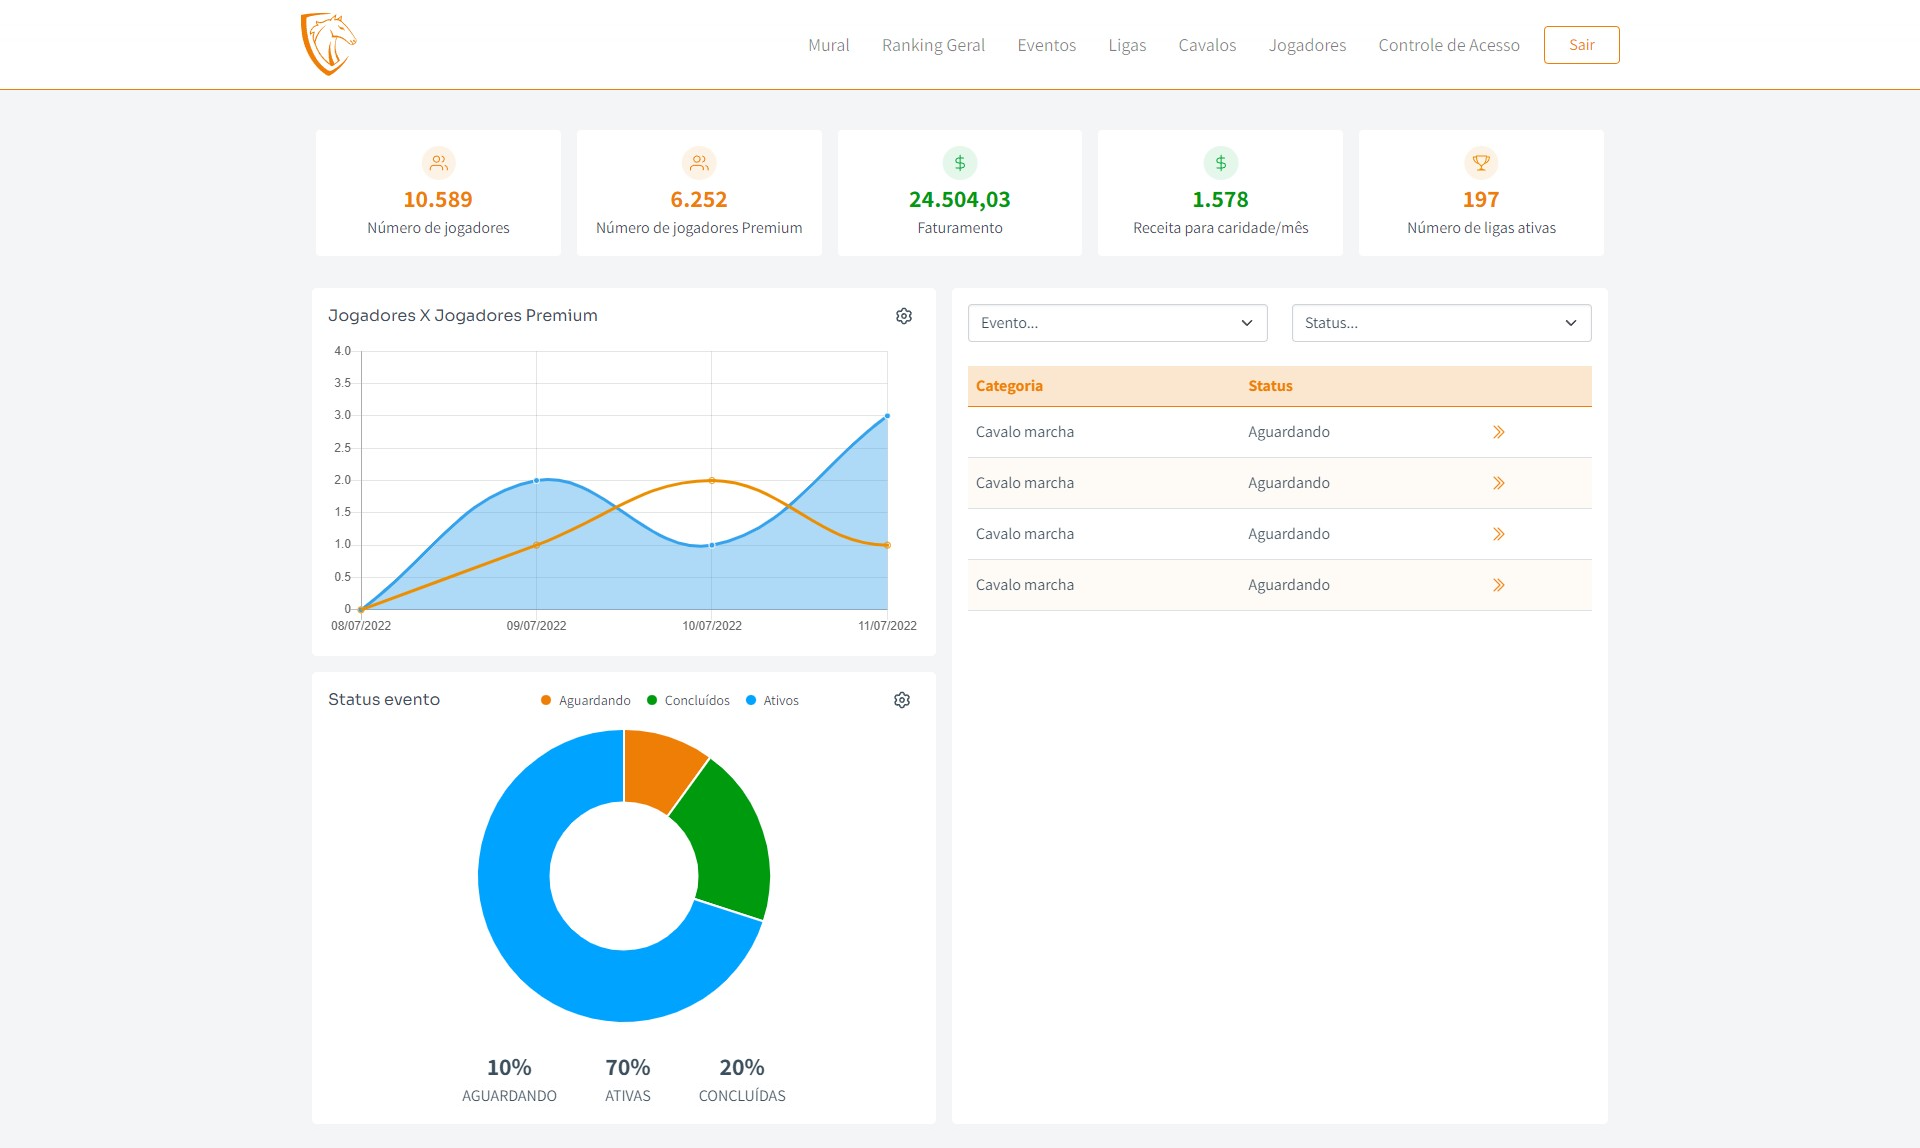
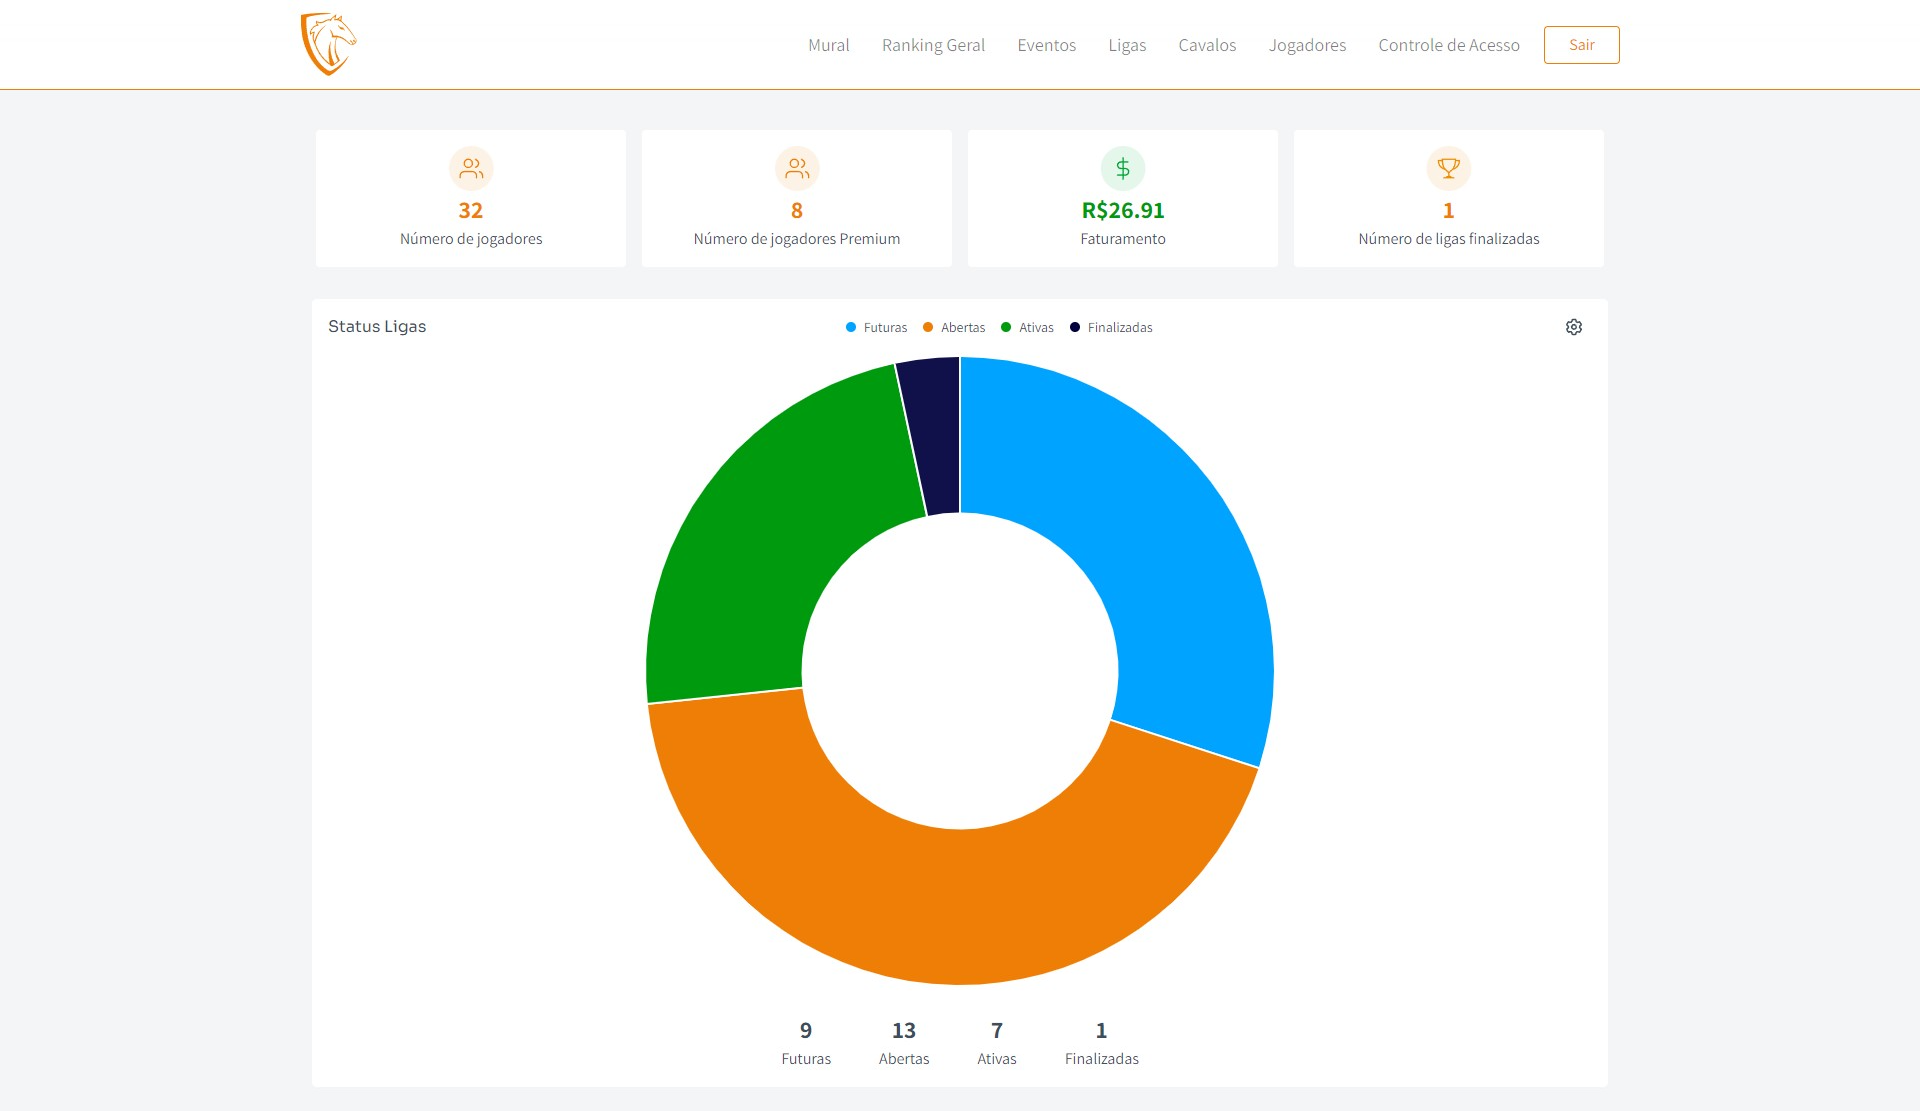
update

diff --git a/docs/Manual do Backoffice/ranking-geral.md b/docs/Manual do Backoffice/ranking-geral.md
@@ -2,49 +2,84 @@
 sidebar_position: 3
 ---
 
-# RANKING GERAL
+# RANKINGS
 
-O **Ranking Geral** é dividido em 3 partes:
+## COMO CALCULAR OS RANKINGS?
 
-- O Ranking Geral dos jogadores
-    - Ranking Geral dos jogadores Brutal que participaram dos eventos do Pisteiro.
-- O Ranking Geral da modalidade **Marcha batida**
-    - Ranking Geral dos jogadores Brutal que participaram dos eventos de Marcha batida.
-- O Ranking Geral da modalidade **Marcha picada**
-    - Ranking Geral dos jogadores Brutal que participaram dos eventos de Marcha picada.
+### 1. GERAR A PONTUAÇÃO E O RANKING DA CATEGORIA
 
-## COMO CALCULAR OS RANKINGS GERAIS?
+#### A. ACESSE A CATEGORIA QUE DESEJA INSERIR A PONTUAÇÃO.
 
-### 1. Clique em Calcular Ranking Geral
+:::note OBSERVAÇÃO
 
-:::note ATENÇÃO
-
-Para gerar o Ranking Geral, é necessario gerar o Ranking de ao menos uma liga paga.
+A categoria deve estar no status ''FECHADO''
 
 :::
+
+#### B. CLIQUE EM ''PONTUAÇÃO''
+
+![Campeonato](/img/backoffice/ranking1.png)
+
+#### C. INSIRA AS PONTUAÇÕES DE ACORDO COM A COLOCAÇÃO DOS CAVALOS NA CATEGORIA
+
+![Campeonato](/img/backoffice/ranking2.png)
+
+#### D. CLIQUE EM ''ENVIAR'' APÓS INSERIR TODA A PONTUAÇÃO
+
+![Campeonato](/img/backoffice/ranking3.png)
+
+#### E. CLIQUE EM ''VER CATEGORIA''
+
+![Campeonato](/img/backoffice/ranking4.png)
+
+#### F. CLIQUE EM ''RANKING''
+
+![Campeonato](/img/backoffice/ranking5.png)
+
+#### G. CLIQUE EM ''CALCULAR RANKING DA CATEGORIA''
+
+![Campeonato](/img/backoffice/ranking6.png)
+
+#### H. MUDE O STATUS DA CATEGORIA PARA ''FINALIZADO''
+
+### 2. CALCULAR O RANKING DAS LIGAS
+
+#### A. LOCALIZAR AS LIGAS COM AS CATEGORIAS FINALIZADAS
+
+#### B. CLIQUE NO ICONE DE SETA, NA LIGA QUE DESEJA GERAR O RANKING
+
+![Campeonato](/img/backoffice/ranking7.png)
+
+#### C. CLIQUE EM ''VER RANKING DA LIGA''
+
+![Campeonato](/img/backoffice/ranking8.png)
+
+#### D. CLIQUE EM ''CALCULAR RANKING DA LIGA''
+
+![Campeonato](/img/backoffice/ranking9.png)
+
+### 3. CALCULAR O RANKING DOS EVENTOS
+
+#### A. ACESSE O EVENTO QUE DESEJA GERAR O RANKING
+
+#### B. CLIQUE EM ''RANKING''
+
+![Campeonato](/img/backoffice/ranking10.png)
+
+#### C. CLIQUE EM ''CALCULAR RANKING DO EVENTO''
+
+![Campeonato](/img/backoffice/ranking11.png)
+
+### 4. CALCULAR O RANKING DAS MODALIDADES
+
+#### A. ACESSE A PAGINA DE RANKING GERAL
+
+#### B. CLIQUE EM ''CALCULAR RANKING DA MODALIDADE''
+
+![Campeonato](/img/backoffice/ranking12.png)
+
+### 5. CALCULAR O RANKING GERAL
+
+#### A. CLIQUE EM ''CALCULAR RANKING GERAL''
 
 ![Campeonato](/img/backoffice/RankingGeral.png)
-
-## COMO CALCULAR O RANKING GERAL DA MARCHA BATIDA?
-
-### 1. Clique em Calcular Ranking da modalidade
-
-:::note ATENÇÃO
-
-Para gerar o Ranking Geral da Marcha batida, é necessario gerar o Ranking de ao menos uma liga paga de um dos eventos de marcha batida.
-
-:::
-
-![Campeonato](/img/backoffice/RankingBatida.png)
-
-## COMO CALCULAR O RANKING GERAL DA MARCHA PICADA?
-
-### 1. Clique em Calcular Ranking da modalidade
-
-:::note ATENÇÃO
-
-Para gerar o Ranking Geral da Marcha picada, é necessario gerar o Ranking de ao menos uma liga paga de um dos eventos de marcha picada.
-
-:::
-
-![Campeonato](/img/backoffice/RankingPicada.png)

diff --git a/docs/Manual do Backoffice/backoffice-mural.md b/docs/Manual do Backoffice/backoffice-mural.md
@@ -57,24 +57,12 @@ sidebar_position: 2
 
 - Indicador exibe o total arrecadado de usuários que solicitaram o plano Brutal.
 
-### RECEITA PARA CARIDADE
+### NUMERO DE LIGAS FINALIZADAS
 
-- Indicador exibe o total arrecadado que será destinado a projetos de caridade.
-
-### NUMERO DE LIGAS ATIVAS
-
-- Indicador exibe o numero total de ligas ativas no momento.
+- Indicador exibe o numero total de ligas FINALIZADAS no momento.
 
 ## GRAFICOS
 
-### GRÁFICO DE JOGADORES X JOGADORES PREMIUM (BRUTAL)
+### GRÁFICO DE STATUS DAS LIGAS
 
-- O gráfico mostra a comparação de usuários com plano gratuito e plano brutal.
-
-### GRÁFICO DE STATUS DO EVENTO
-
-- O gráfico mostra a comparação do numero de eventos Aguardando, Ativas e Concluidas.
-
-### FILTRO DE CAMPEONATOS
-
-- O usuário poderá filtrar os eventos e seus respectivos status para ter uma visão geral.
+- O gráfico mostra a comparação do numero de ligas Aguardando, Ativas e Concluidas.
